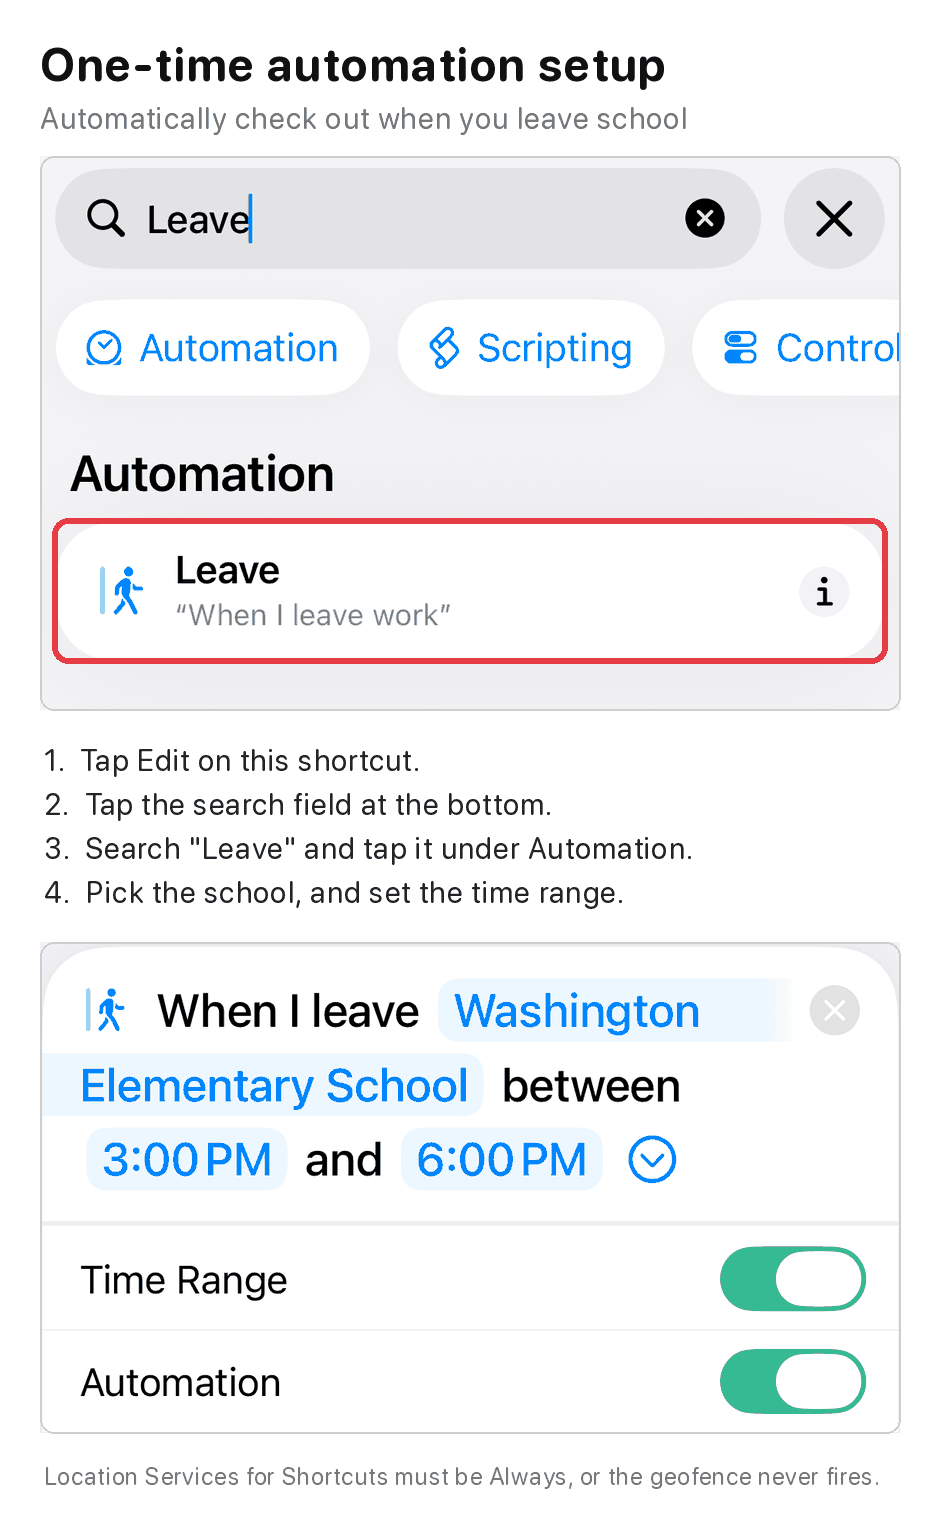
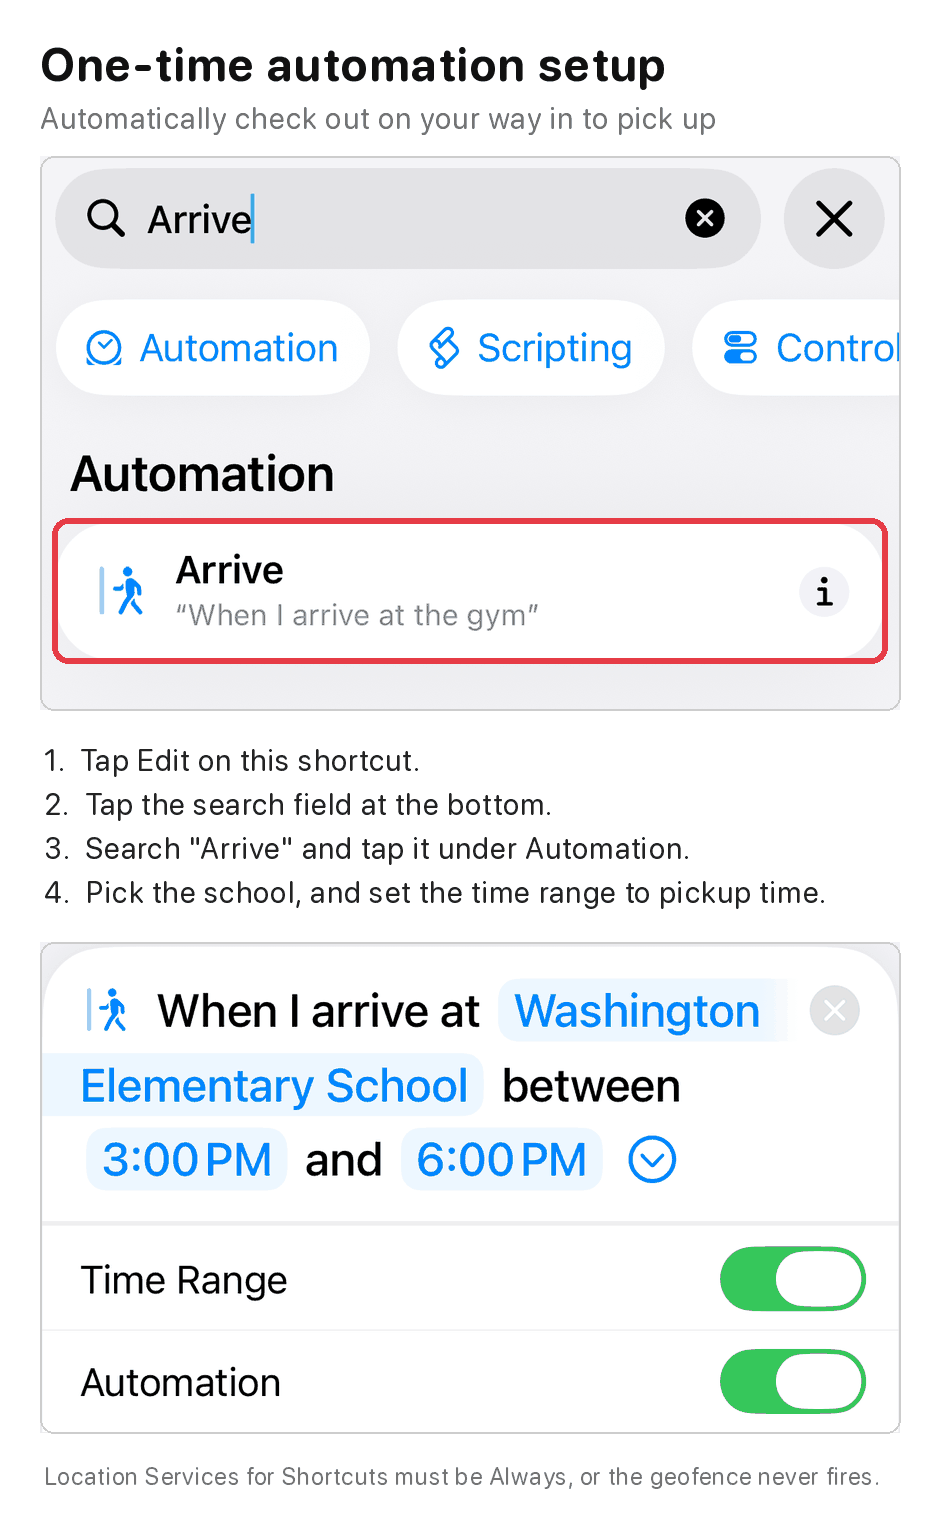
✨ feat: check out on the way in — both wrappers now want an Arrive trigger
The school asks that children be checked out as parents walk in, so `Brightwheel Check Out` points at a second `Arrive` trigger instead of `Leave`. An arrival fires while you are still parking, so the child is already checked out by the time you reach the room; a `Leave` trigger only sends once you are driving away with them. Leaving in the afternoon still works and stays documented as an alternative — nothing in the design can tell the difference.

The time ranges are now the only thing telling the two triggers apart, so they carry the weight the trigger kind used to: step 4 of each guide names the range (drop-off time against pickup time), and the docs say the two must not overlap. Direction is unaffected — the wrapper decides it, so a badly set range fires a run at the wrong time, never in the wrong direction.

Both guides ring the same row now, so they share one picker capture; only the configured panel differs. `capture-arrive-pm-set.png` is a new iOS 27 simulator capture of an `Arrive` trigger set to 3:00-6:00 PM, cropped to the result box `make_diagrams.py` documents. `capture-leave.png` and `capture-leave-set.png` are deleted — nothing renders them any more. The Check In subtitle moves from "when you arrive at school" to "when you drop off in the morning", because with both guides describing an arrival at the same school it was the time of day, not the arrival, that told them apart.

Claude-Session: https://claude.ai/code/session_01JNbXBbRoXnkbC4adEpuUPp

diff --git a/make_diagrams.py b/make_diagrams.py
@@ -1,8 +1,11 @@
 #!/usr/bin/env python3
 """Draw the first-run setup diagrams the wrappers show.
 
-Each wrapper explains how to attach its own trigger, so there are two: Check In
-points at the Arrive action, Check Out at Leave.
+Each wrapper explains how to attach its own trigger, so there are two. Both
+point at the Arrive action: the school asks that children be checked out on the
+parents' way in, so the check-out fires on arriving for pickup rather than on
+leaving. What separates the two is the time range, which is why the steps and
+the subtitle name it and the shared picker panel does not.
 
 Each diagram is a before/after pair. The top panel is the action picker with
 the row to tap ringed; the bottom panel is the same trigger once it has a
@@ -10,10 +13,12 @@ location and a time range, so there is something to compare your own screen
 against. Knowing what to search for is only half of it — "have I finished?" is
 the question the steps alone cannot answer.
 
-All four screenshots came off an iOS 27 simulator (assets/capture-*.png, and
-capture-*-set.png for the configured ones). They are stored **already cropped
-to the region used**, and are pasted whole — a full 1206x2622 screenshot is
-four times the bytes for the same picture, and these live in git.
+All three screenshots came off an iOS 27 simulator (assets/capture-*.png, and
+capture-*-set.png for the configured ones). Both diagrams share one picker
+capture, because both ring the same row; only the configured panel differs.
+They are stored **already cropped to the region used**, and are pasted whole —
+a full 1206x2622 screenshot is four times the bytes for the same picture, and
+these live in git.
 
 To recapture, take a full screenshot on an iPhone 17 Pro simulator and cut out
 the same region before saving it here:
@@ -43,10 +48,11 @@ from PIL import Image, ImageDraw, ImageFont
 HERE = pathlib.Path(__file__).parent
 ASSETS = HERE / "assets"
 
-# The action row to ring. Both screenshots are the same screen — they differ
-# only in the label inside this row — so the rectangle is measured once and
-# shared. Ringing them from two hand-measured rectangles is what made the two
-# diagrams disagree: one ring cut into the card, the other sat around it.
+# The action row to ring. Both diagrams ring Arrive, so they now share one
+# picker capture outright and the rectangle is measured once. Ringing them from
+# two hand-measured rectangles is what made the two diagrams disagree back when
+# each had its own screenshot: one ring cut into the card, the other sat around
+# it.
 #
 # Measured, not eyeballed: the card is the white rounded rect, found by scanning
 # for near-white at x=1000 (clear of the icon and the text) and along y=795 of
@@ -60,14 +66,16 @@ PLAN = {
     "check-in": {
         "capture": "capture-arrive.png",
         "result": "capture-arrive-set.png",
-        "subtitle": "Automatically check in when you arrive at school",
+        "subtitle": "Automatically check in when you drop off in the morning",
         "action": "Arrive",
+        "when": "drop-off time",
     },
     "check-out": {
-        "capture": "capture-leave.png",
-        "result": "capture-leave-set.png",
-        "subtitle": "Automatically check out when you leave school",
-        "action": "Leave",
+        "capture": "capture-arrive.png",
+        "result": "capture-arrive-pm-set.png",
+        "subtitle": "Automatically check out on your way in to pick up",
+        "action": "Arrive",
+        "when": "pickup time",
     },
 }
 WIDTH = 860
@@ -105,10 +113,13 @@ def draw(kind, spec):
     # It already defaults to off — checked on a simulator, untouched, straight
     # after adding the trigger — so unattended runs need nothing done to it, and
     # whether you want a prompt is your call rather than a setup step.
+    # Step 4 names the time range rather than just asking for one. Both
+    # wrappers now ring the same row in the same picture, so the range is the
+    # only thing that tells the two guides apart on screen.
     steps = ["1.  Tap Edit on this shortcut.",
              "2.  Tap the search field at the bottom.",
              f'3.  Search "{spec["action"]}" and tap it under Automation.',
-             "4.  Pick the school, and set the time range."]
+             f'4.  Pick the school, and set the time range to {spec["when"]}.']
 
     # Lay the page out first so the canvas is exactly as tall as its contents.
     # It used to be a hard-coded 1320, which silently clipped anything added.

diff --git a/build_shortcuts.py b/build_shortcuts.py
@@ -1189,8 +1189,13 @@ def build_wrapper(direction):
     title = "Brightwheel Check In" if checking_in else "Brightwheel Check Out"
     word = "in" if checking_in else "out"
     # The trigger each wrapper wants, named rather than offered as a choice —
-    # the bundled diagram rings this exact row in the action picker.
-    trigger = "Arrive" if checking_in else "Leave"
+    # the bundled diagram rings this exact row in the action picker. Both want
+    # Arrive: the school asks that children be checked out on the parents' way
+    # in, so the check-out fires on arriving to pick up rather than on leaving
+    # with them. The time range is what tells the two apart, and it lives on
+    # the device — see the direction note below for why that is still safe.
+    trigger = "Arrive"
+    when = "drop-off time" if checking_in else "pickup time"
     # A plane arriving for in, departing for out: a matched pair that reads as
     # direction and nothing else. (Not 62466/62467, which are a plane on a
     # runway rather than the arriving/departing pair.) Sunrise/sunset was the other candidate and was
@@ -1217,8 +1222,13 @@ def build_wrapper(direction):
     A = [
         comment(
             f"{title}\n\n"
-            f"Attach the {trigger} trigger to this shortcut. All it does is "
-            f"tell Brightwheel Attendance to check the children {word}.\n\n"
+            f"Attach the {trigger} trigger to this shortcut, set to {when}. "
+            f"All it does is tell Brightwheel Attendance to check the children "
+            f"{word}.\n\n"
+            "Both wrappers arrive at the same school, so the time range is what "
+            "tells them apart. Check out on the way in, not on the way out: the "
+            "school asks that children be checked out as parents walk in, and an "
+            "arrival fires while you are still parking.\n\n"
             "The direction lives here rather than in the shortcut that does the "
             "work, so which trigger fired decides it. Nothing is worked out from "
             "the time of day, which means changing a trigger's hours cannot make "

diff --git a/README.md b/README.md
@@ -14,8 +14,8 @@ opening the app, fired unattended by location triggers.
 The three shortcuts:
 
 - **Brightwheel Attendance** — does the work. Run it by hand and it asks which way.
-- **Brightwheel Check In** — carries the Arrive trigger; calls Attendance with `in`
-- **Brightwheel Check Out** — carries the Leave trigger; calls Attendance with `out`
+- **Brightwheel Check In** — carries a morning Arrive trigger; calls Attendance with `in`
+- **Brightwheel Check Out** — carries an afternoon Arrive trigger; calls Attendance with `out`
 
 The two small ones exist so that **which trigger fired decides the direction**.
 Nothing works it out from the time of day, so editing a trigger's hours on the
@@ -130,17 +130,27 @@ In iOS 27 a shortcut carries its own triggers, so add them to **Brightwheel Chec
 In** and **Brightwheel Check Out** — not to Brightwheel Attendance, which has no
 direction of its own.
 
-Any pair of triggers works, as long as one means "going in" and the other "going
-out": arriving in the morning and leaving in the afternoon, or arriving twice
-with different time ranges. The shortcut does not care which; it only knows which
-wrapper called it.
+**Use Arrive for both**, on two different time ranges — arriving at the school in
+the morning and arriving again in the afternoon. Checking out on the way in is
+what the school asks for: children should be checked out as parents walk in, and
+an arrival fires while you are still parking, so they are already checked out by
+the time you reach the room. A Leave trigger only sends once you are driving away
+with them.
+
+Any pair still works, as long as one means "going in" and the other "going out" —
+leaving in the afternoon is a supported alternative, and the shortcut cannot tell
+the difference. It only knows which wrapper called it.
 
 **Each wrapper shows you how, once.** The first time you run Brightwheel Check
 In or Check Out by hand, it displays a diagram pointing at the action it needs —
-Arrive for one, Leave for the other — and then never shows it again.
+the same Arrive row for both, differing in the time range to set — and then never
+shows it again.
 
 - **Attach triggers last.** Re-importing a rebuilt shortcut loses them, and they
   cannot be generated into the file.
+- **Do not let the two ranges overlap.** With both wrappers watching the same
+  arrival, the hours are the only thing telling them apart. A bad range fires a
+  run at the wrong time — never in the wrong direction, which stays structural.
 - Set Location Services → Shortcuts to **Always**, or the geofence silently never
   fires.
 - **Confirm Before Run** already defaults to off, which is what lets a trigger

diff --git a/ARCHITECTURE.md b/ARCHITECTURE.md
@@ -672,12 +672,28 @@ much smaller than the picker's.
 ## Showing an image, and the first-run guide
 
 Each wrapper shows a diagram the first time it runs, explaining how to attach
-its own trigger — Arrive for Check In, Leave for Check Out. It lives in the
-wrappers rather than in Attendance on purpose: **Attendance is complete on its
-own**, and the wrappers are optional extras that automate it, so setup
-instructions for an optional extra do not belong in the shortcut that extra is
-optional to. Two wrappers also means two different guides, which is what the
-job actually needs.
+its own trigger — an **Arrive** trigger for both, separated by their time
+ranges. Check Out used to point at Leave; it points at a second arrival now
+because the school asks that children be checked out as parents walk in, and an
+arrival fires while you are still parking rather than once you are driving away
+with them. The guide lives in the wrappers rather than in Attendance on purpose:
+**Attendance is complete on its own**, and the wrappers are optional extras that
+automate it, so setup instructions for an optional extra do not belong in the
+shortcut that extra is optional to. Two wrappers also means two different
+guides, which is what the job actually needs.
+
+Both guides therefore ring the same row in one shared picker screenshot, and it
+is the configured panel and step 4 that differ — `capture-arrive-set.png` at
+drop-off time against `capture-arrive-pm-set.png` at pickup time.
+
+Two arrivals at one school move all of the load onto the **time ranges, which
+must not overlap**. They are now the only thing telling the triggers apart, and
+they live on the device where the build cannot check them. What that cannot
+break is direction: the wrapper still decides it, so a badly set range makes a
+run fire at the wrong *time*, never in the wrong direction — the failure it can
+produce is a check-out in the morning, not a check-in that reports a departure.
+Arriving twice inside one window is separately harmless, because the
+idempotency guard above skips anyone already in the state the run wants.
 
 There is no image parameter on any alert. Show Alert takes a title and a
 message and nothing else. What works is carrying the PNG as base64 in a Text
